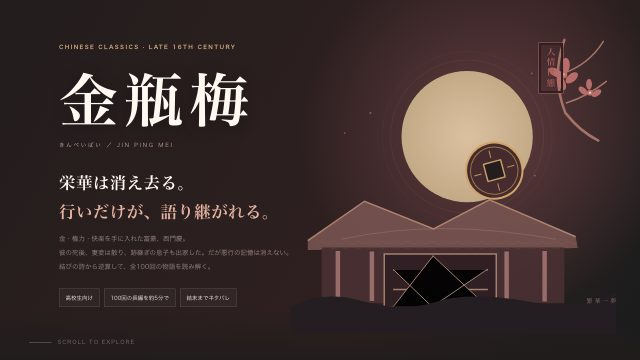
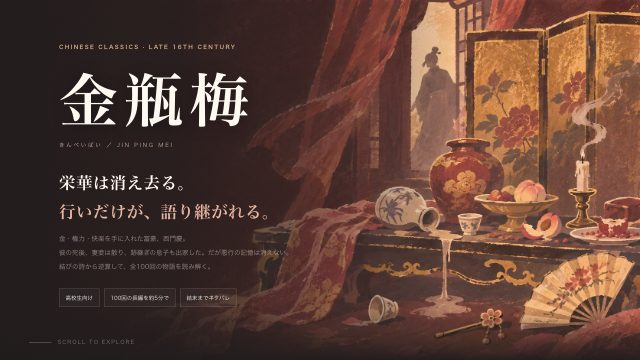
金瓶梅と紅楼夢の図解の冒頭を絵に差し替え、評価の出典を一次資料にする
- 図解2本の冒頭の SVG 絵を外し、用意した絵(img/*.webp)を背景に敷く。文字の後ろは左から暗くし、縦並びの幅では上から暗くする
- 評価の節の出典を、Wikipedia から一次資料(『万暦野獲編』『中国小説史略』『金瓶梅』第58回、張明澄『間違いだらけの漢文』など)に替える。確かめられなかった記述は削るか言い換える
- あらすじを横5列に並べる幅で、列幅に合わせて見出しを縮め、末尾1文字だけが次の行に落ちないようにする
- サムネ撮影の設定から外した絵の指定を消し、サムネを撮り直す

diff --git a/talks/jinpingmei-kouroumu/jinpingmei.html b/talks/jinpingmei-kouroumu/jinpingmei.html
@@ -10,7 +10,7 @@
 :root{--paper:#f5f0e8;--paper2:#ece5d9;--cream:#fffaf1;--ink:#292322;--muted:#766c68;--line:#d8cabe;--wine:#8d3540;--wine2:#a4474d;--wine-soft:#f4e2df;--gold:#bf985c;--night:#242020;--night2:#342323;--sage:#557a69;--serif:'Noto Serif JP','Yu Mincho','Hiragino Mincho ProN','YuMincho',serif;--sans:'Noto Sans JP','Hiragino Kaku Gothic ProN','Meiryo',sans}
 *{box-sizing:border-box}html{scroll-behavior:smooth}body{margin:0;background:var(--paper);color:var(--ink);font:15px/1.9 var(--sans);-webkit-font-smoothing:antialiased}a{color:inherit;text-decoration:none}button{font:inherit}a:focus-visible,button:focus-visible{outline:3px solid #dcaa55;outline-offset:3px}::selection{background:#e6b7a6}.wrap{max-width:1160px;margin:auto;padding:0 clamp(18px,4.8vw,58px)}.section{padding:100px 0}.eyebrow{display:flex;align-items:center;gap:12px;letter-spacing:.17em;color:var(--wine2);font-size:11px;font-weight:800;text-transform:uppercase}.eyebrow:before{content:'';width:24px;height:1px;background:currentColor}.sec-title{font:800 clamp(27px,3.6vw,43px)/1.55 var(--serif);letter-spacing:.025em;margin:13px 0}.sec-sub{margin:0 0 34px;color:var(--muted);font-size:14px;max-width:780px;line-height:2}.accent{color:var(--wine)}.serif{font-family:var(--serif)}.tiny{font-size:12px;color:var(--muted)}.fade{color:#c7b8af}.no-break{white-space:nowrap}
 /* hero */
-.hero{background:radial-gradient(circle at 76% 37%,#613c40 0,transparent 35%),linear-gradient(120deg,#231d1d 0%,#302020 66%,#191c1c 100%);color:var(--cream);position:relative;overflow:hidden}.hero:after{content:'';position:absolute;inset:auto 0 0;height:100px;background:linear-gradient(transparent,#211c1cf5);pointer-events:none}.hero-layout{min-height:625px;display:grid;grid-template-columns:1.03fr .97fr;align-items:center;position:relative;z-index:2}.hero-copy{padding:72px 0 95px;position:relative;z-index:3}.hero-kicker{font-size:11px;letter-spacing:.25em;color:#dbb587;font-weight:800}.hero h1{font:900 clamp(70px,9.7vw,117px)/1.25 var(--serif);letter-spacing:.12em;margin:22px 0 8px;text-shadow:0 7px 32px #0005}.hero-trans{color:#cdb0a2;font-size:11px;letter-spacing:.32em}.hero h2{font:700 clamp(23px,2.8vw,33px)/1.72 var(--serif);letter-spacing:.025em;margin:37px 0 12px}.hero h2 em{font-style:normal;color:#e6b4a2}.hero-description{color:#d3c1b9aa;max-width:500px;font-size:13px;line-height:2.15}.hero-tags{display:flex;gap:9px;flex-wrap:wrap;margin-top:29px}.hero-tags span{border:1px solid #c9a78a4d;background:#ffffff08;padding:7px 12px;font-size:11px}.hero-art{height:625px;position:relative;pointer-events:none}.hero-art svg{height:100%;width:calc(100% + 145px);position:absolute;left:-75px;top:0}.hero-stamp{position:absolute;right:7%;top:85px;z-index:3;border:1px solid #ae675f;color:#a85b55;font:800 17px/1.4 var(--serif);padding:9px 12px;writing-mode:vertical-rl;letter-spacing:.2em;box-shadow:inset 0 0 0 4px #301e20}.hero-scroll{position:absolute;bottom:26px;left:clamp(18px,4.8vw,58px);font-size:11px;letter-spacing:.18em;color:#d5c4be86;z-index:4}.hero-scroll:before{content:'';display:inline-block;width:45px;height:1px;background:currentColor;vertical-align:middle;margin-right:12px}
+.hero{background:linear-gradient(90deg,#231d1d 0%,#231d1deb 36%,#231d1d99 56%,#231d1d00 80%),url(img/jinpingmei-hero.webp) right center/cover no-repeat,#231d1d;color:var(--cream);position:relative;overflow:hidden}.hero:after{content:'';position:absolute;inset:auto 0 0;height:100px;background:linear-gradient(transparent,#211c1cf5);pointer-events:none}.hero-layout{min-height:625px;display:grid;grid-template-columns:1.03fr .97fr;align-items:center;position:relative;z-index:2}.hero-copy{padding:72px 0 95px;position:relative;z-index:3}.hero-kicker{font-size:11px;letter-spacing:.25em;color:#dbb587;font-weight:800}.hero h1{font:900 clamp(70px,9.7vw,117px)/1.25 var(--serif);letter-spacing:.12em;margin:22px 0 8px;text-shadow:0 7px 32px #0005}.hero-trans{color:#cdb0a2;font-size:11px;letter-spacing:.32em}.hero h2{font:700 clamp(23px,2.8vw,33px)/1.72 var(--serif);letter-spacing:.025em;margin:37px 0 12px}.hero h2 em{font-style:normal;color:#e6b4a2}.hero-description{color:#d3c1b9aa;max-width:500px;font-size:13px;line-height:2.15}.hero-tags{display:flex;gap:9px;flex-wrap:wrap;margin-top:29px}.hero-tags span{border:1px solid #c9a78a4d;background:#ffffff08;padding:7px 12px;font-size:11px}.hero-art{height:625px;position:relative;pointer-events:none}.hero-art svg{height:100%;width:calc(100% + 145px);position:absolute;left:-75px;top:0}.hero-stamp{position:absolute;right:7%;top:85px;z-index:3;border:1px solid #ae675f;color:#a85b55;font:800 17px/1.4 var(--serif);padding:9px 12px;writing-mode:vertical-rl;letter-spacing:.2em;box-shadow:inset 0 0 0 4px #301e20}.hero-scroll{position:absolute;bottom:26px;left:clamp(18px,4.8vw,58px);font-size:11px;letter-spacing:.18em;color:#d5c4be86;z-index:4}.hero-scroll:before{content:'';display:inline-block;width:45px;height:1px;background:currentColor;vertical-align:middle;margin-right:12px}
 /* overview */
 .overview{background:#f8f3ec}.overview-grid{display:grid;grid-template-columns:1fr 1fr;gap:65px;align-items:center}.thesis{font:800 clamp(24px,3.4vw,36px)/1.78 var(--serif);margin:15px 0 14px}.thesis mark{background:linear-gradient(transparent 68%,#f0d0c1 68%);color:inherit}.overview p{color:#6f6561}.stats{display:grid;grid-template-columns:repeat(3,minmax(0,1fr));border:1px solid var(--line);background:#fffaf5;box-shadow:0 22px 50px #4431260b}.stat{text-align:center;padding:26px 12px;border-right:1px solid var(--line)}.stat:last-child{border:0}.stat strong{display:block;font:800 clamp(26px,3.6vw,41px) var(--serif);color:var(--wine)}.stat span{font-size:11px;color:#84736e}.overview-note{margin-top:12px;font-size:11px!important;line-height:1.7;color:#8a7a73!important}
 /* formula */
@@ -67,6 +67,10 @@
 @media(max-width:800px){.poem-layout{grid-template-columns:1fr}.poem-panel{max-width:none}.legacy-time,.legacy-cols{grid-template-columns:1fr 64px 1fr}.legacy-side{padding:18px 14px;min-height:245px}.legacy-middle .legacy-cross{font-size:36px}.legacy-tokens span{font-size:12px}}
 @media(max-width:758px){.poem-panel{padding:22px 20px}.poem-body{font-size:clamp(14px,4vw,18px)}.poem-seal{right:9px;top:108px;font-size:11px;opacity:.35}.read-row{padding:14px 13px;grid-template-columns:26px 1fr;gap:10px}.read-index{font-size:20px}.read-row h3{font-size:17px}.read-row p{font-size:12px}.legacy-diagram{padding:18px 13px}.legacy-time{grid-template-columns:1fr 33px 1fr;gap:5px;font-size:10px;letter-spacing:0}.legacy-time span:nth-child(2){font-size:9px}.legacy-cols{grid-template-columns:1fr 33px 1fr;gap:5px}.legacy-side{padding:16px 8px;min-height:244px}.legacy-side h3{font-size:16px;line-height:1.45;min-height:46px}.legacy-kicker{font-size:8px;letter-spacing:0}.legacy-tokens{gap:5px}.legacy-tokens span{font-size:11px;letter-spacing:-.04em;padding:7px 1px}.legacy-side p{font-size:10px;margin-top:12px}.legacy-middle .legacy-cross{font-size:27px}.legacy-cross-caption{font-size:9px;letter-spacing:-.06em;writing-mode:vertical-rl}.legacy-arrow{font-size:23px}.legacy-bottom{display:block;text-align:center;font-size:13px}.legacy-bottom span,.legacy-bottom strong{display:block}}
 @media(max-width:540px){.poem-panel{padding:22px 20px}.poem-body{font-size:clamp(14px,4vw,18px)}.poem-seal{right:9px;top:108px;font-size:11px;opacity:.35}.read-row{padding:14px 13px;grid-template-columns:26px 1fr;gap:10px}.read-index{font-size:20px}.read-row h3{font-size:17px}.read-row p{font-size:12px}.legacy-diagram{padding:18px 13px}.legacy-time{grid-template-columns:1fr 33px 1fr;gap:5px;font-size:10px;letter-spacing:0}.legacy-time span:nth-child(2){font-size:9px}.legacy-cols{grid-template-columns:1fr 33px 1fr;gap:5px}.legacy-side{padding:16px 8px;min-height:244px}.legacy-side h3{font-size:16px;line-height:1.45;min-height:46px}.legacy-kicker{font-size:8px;letter-spacing:0}.legacy-tokens{gap:5px}.legacy-tokens span{font-size:11px;letter-spacing:-.04em;padding:7px 1px}.legacy-side p{font-size:10px;margin-top:12px}.legacy-middle .legacy-cross{font-size:27px}.legacy-cross-caption{font-size:9px;letter-spacing:-.06em;writing-mode:vertical-rl}.legacy-arrow{font-size:23px}.legacy-bottom{display:block;text-align:center;font-size:13px}.legacy-bottom span,.legacy-bottom strong{display:block}}
+/* あらすじを横5列に並べているとき、列幅に合わせて見出しを縮め、末尾1文字だけが次の行に落ちないようにする(横5列になるのは 899px 以上) */
+@media(min-width:899px){.scene h3{font-size:clamp(13px,calc((90.4vw - var(--aside)) / 40 - 3.3px),18px)}}
+/* 冒頭は画像を背景に敷く。縦並びの幅では文字の後ろを上から暗くし、下に絵を見せる */
+@media(max-width:898px){.hero{background:linear-gradient(180deg,#231d1df2 0%,#231d1de0 55%,#231d1d59 100%),url(img/jinpingmei-hero.webp) 72% bottom/cover no-repeat,#231d1d}.hero-layout{padding-bottom:120px}}
 </style>
 <link rel="stylesheet" href="../talkbar.css">
 </head>
@@ -95,14 +99,7 @@
 <div class="layout">
 <main>
 <section class="hero" aria-labelledby="hero-title"><div class="wrap hero-layout"><div class="hero-copy"><div class="hero-kicker">CHINESE CLASSICS · LATE 16TH CENTURY</div><h1 id="hero-title">金瓶梅</h1><div class="hero-trans">きんぺいばい ／ JIN PING MEI</div><h2>栄華は消え去る。<br><em>行いだけが、語り継がれる。</em></h2><p class="hero-description">金・権力・快楽を手に入れた富豪、西門慶。<br>彼の死後、妻妾は散り、跡継ぎの息子も出家した。だが悪行の記憶は消えない。<br>結びの詩から逆算して、全100回の物語を読み解く。</p><div class="hero-tags"><span>高校生向け</span><span>100回の長編を約5分で</span><span>結末までネタバレ</span></div></div>
-<div class="hero-art" aria-hidden="true"><svg viewBox="0 0 660 620" xmlns="http://www.w3.org/2000/svg"><defs><radialGradient id="gMoon"><stop offset="0" stop-color="#e8ceaa"/><stop offset="1" stop-color="#cfb68f"/></radialGradient><linearGradient id="gRoof" x1="0" y1="0" x2="0" y2="1"><stop stop-color="#785451"/><stop offset="1" stop-color="#3c3032"/></linearGradient><pattern id="roofPattern" width="25" height="13" patternUnits="userSpaceOnUse"><path d="M0 12 Q12 1 25 12" fill="none" stroke="#c89c83" stroke-width=".8" opacity=".26"/></pattern></defs>
-<circle cx="358" cy="222" r="133" fill="url(#gMoon)" opacity=".91"/><circle cx="358" cy="222" r="155" stroke="#deb890" stroke-opacity=".16" fill="none"/><circle cx="358" cy="222" r="172" stroke="#d7af8e" stroke-opacity=".1" fill="none"/>
-<g opacity=".9"><path d="M35 433 L150 353 L290 409 L403 350 L578 425 L582 448 L35 452Z" fill="#775450"/><path d="M35 433 L150 353 L290 409 L403 350 L578 425" fill="none" stroke="#bb8c78" stroke-width="3"/><path d="M63 447H555V560H63Z" fill="#4a3032"/><path d="M96 454V556M515 454V556M165 455V555M438 455V555" stroke="#a47572" stroke-width="9"/><path d="M190 460 H417V568H190Z" fill="#301f24" stroke="#b08a79" stroke-width="3"/><path d="M289 463V568 M208 492H400M208 532H400" stroke="#b08a79" stroke-width="3"/><path d="M208 491L287 567L399 491M399 567L289 464L208 567" stroke="#b08a79" stroke-width="2"/><path d="M54 430 H580 V451 H54Z" fill="url(#roofPattern)"/><path d="M103 430Q300 387 538 430" stroke="#caa088" stroke-opacity=".3" stroke-width="2" fill="none"/></g>
-<path d="M0 569Q60 532 144 555T294 557T480 556T660 536V620H0Z" fill="#241e22"/>
-<g fill="none" stroke="#a57469" stroke-width="5" stroke-linecap="round"><path d="M555 26 Q528 100 557 174 Q588 213 624 230"/><path d="M550 95 Q605 76 634 29M559 154 Q604 139 640 110" stroke-width="3"/></g>
-<g fill="#b76d69"><circle cx="553" cy="96" r="8"/><ellipse cx="537" cy="92" rx="8" ry="15" transform="rotate(-60 537 92)"/><ellipse cx="558" cy="77" rx="8" ry="15"/><ellipse cx="570" cy="103" rx="8" ry="15" transform="rotate(50 570 103)"/><ellipse cx="549" cy="114" rx="8" ry="15" transform="rotate(-25 549 114)"/><circle cx="607" cy="133" r="6"/><ellipse cx="593" cy="129" rx="6" ry="11" transform="rotate(-50 593 129)"/><ellipse cx="605" cy="116" rx="6" ry="11"/><ellipse cx="620" cy="134" rx="6" ry="11" transform="rotate(58 620 134)"/></g><g fill="#e9c3a1"><circle cx="553" cy="96" r="2.7"/><circle cx="607" cy="133" r="2.5"/></g>
-<g fill="#c1a17c" opacity=".48"><circle cx="162" cy="174" r="2"/><circle cx="110" cy="215" r="1.8"/><circle cx="489" cy="94" r="1.7"/><circle cx="495" cy="301" r="1.8"/></g>
-<g transform="translate(413 291) rotate(-15)"><circle r="57" fill="#452b2d" stroke="#d0a46b" stroke-width="4"/><circle r="48" fill="none" stroke="#9d774f" stroke-width="2"/><rect x="-18" y="-18" width="36" height="36" rx="1" fill="#241c1e" stroke="#c59d68" stroke-width="3"/><path d="M-42 0H-27M27 0H42M0 -42V-27M0 27V42" stroke="#b99261" stroke-width="2"/></g><text x="600" y="559" font-family="serif" font-size="12" letter-spacing="4" fill="#c6a19a" opacity=".7">繁華一夢</text></svg><div class="hero-stamp">人情世態</div></div></div><div class="hero-scroll">SCROLL TO EXPLORE</div></section>
+</div><div class="hero-scroll">SCROLL TO EXPLORE</div></section>
 <section class="section overview" id="intro"><div class="wrap overview-grid"><div><div class="eyebrow">01 — OVERVIEW</div><h2 class="thesis"><mark>すべてを手に入れた男</mark>は、<br>最後に何を残したのか。</h2><p>舞台は宋代の中国。商人・西門慶は金とコネで権力を買い、複数の妻妾を囲う。しかし、死後に妻妾は散り散りになり、跡継ぎの息子も出家する。残ったのは彼らの行いをめぐる物語だった。</p><p>露骨な性愛描写で知られるが、本質は<strong>富裕層の暮らし、官僚の腐敗、人間の欲望</strong>を細密に描く社会小説。</p></div><div><div class="stats"><div class="stat"><strong>16<span style="font-size:.58em">世紀末</span></strong><span>明代に成立</span></div><div class="stat"><strong>100<span style="font-size:.58em">回</span></strong><span>全100回の長編</span></div><div class="stat"><strong>79<span style="font-size:.58em">回</span></strong><span>主人公の死亡回</span></div></div><p class="overview-note">※ 作者は確定しておらず、蘭陵笑笑生という筆名で知られる。『水滸伝』の武松・潘金蓮・西門慶のエピソードを発展させた作品。</p></div></div></section>
 <section class="formula-section"><div class="wrap"><div class="eyebrow">THE ENGINE OF THE STORY</div><h2 class="sec-title">西門慶を動かす、<span class="accent">4つの連鎖</span></h2><p class="sec-sub">生前にどう成功し、なぜ死後には別の評価が残るのか。まず栄華の仕組みを見てみよう。悪事のたびに罰を受けるどころか、彼は成功してしまう。</p><div class="formula-grid"><article class="formula-card"><div class="formula-icon">金</div><h3>商売で富を築く</h3><p>財産を増やし、周囲の人間を引きつける。</p></article><article class="formula-card"><div class="formula-icon">権</div><h3>賄賂で権力を買う</h3><p>役人と結びつき、不正さえも金で解決する。</p></article><article class="formula-card"><div class="formula-icon">色</div><h3>欲望を広げる</h3><p>次々に女性を求め、家の中に嫉妬と争いが生まれる。</p></article><article class="formula-card"><div class="formula-icon">滅</div><h3>築いたものが崩れる</h3><p>本人の死をきっかけに、家族と金銭関係が瓦解する。</p></article></div></div></section>
 <section class="section characters" id="people"><div class="wrap"><div class="eyebrow">02 — RELATIONSHIPS</div><h2 class="sec-title">金・瓶・梅。<span class="accent">3人の女性がタイトルに</span></h2><p class="sec-sub">題名は主要女性の名前から一文字ずつ。中心にいる西門慶の愛情と財産をめぐり、人間関係が複雑に絡み合う。</p><div class="relation-stage"><div class="diagram-title">西門家の主要人物相関図（簡略版）</div><div class="relation-top"><div class="central"><div class="person-role">富豪・一家の中心</div><div class="person-name">西門慶</div><p>せいもんけい ／ 商売・買収・女性関係で勢力を広げる</p></div></div><svg class="relation-connect" viewBox="0 0 800 84" preserveAspectRatio="none" aria-hidden="true"><path d="M400 0V24M134 60V24H666V60M400 24V60" stroke="#b58c75" stroke-width="2" fill="none"/><circle cx="134" cy="60" r="4" fill="#ac3b42"/><circle cx="400" cy="60" r="4" fill="#c99a65"/><circle cx="666" cy="60" r="4" fill="#6b816e"/><text x="400" y="18" text-anchor="middle" font-size="12" fill="#8f7769">妻妾・愛情と地位の争い</text></svg><div class="three-women"><article class="woman"><div class="woman-head"><div class="woman-symbol">金</div><div><div class="woman-name">潘金蓮</div><div class="woman-kana">はんきんれん</div></div></div><div class="role">第五夫人</div><p>西門慶と不倫し、夫を毒殺。独占欲と嫉妬が強く、李瓶児に敵意を向ける。</p><div class="fate">最後：武松に復讐され死亡</div></article><article class="woman"><div class="woman-head"><div class="woman-symbol">瓶</div><div><div class="woman-name">李瓶児</div><div class="woman-kana">りへいじ</div></div></div><div class="role">第六夫人</div><p>西門慶の息子・官哥を産み、寵愛を受ける。息子を失い、悲嘆のうちに病死する。</p><div class="fate">最後：息子の死後、病死</div></article><article class="woman"><div class="woman-head"><div class="woman-symbol">梅</div><div><div class="woman-name">龐春梅</div><div class="woman-kana">ほうしゅんばい</div></div></div><div class="role">潘金蓮に仕える侍女</div><p>西門家から出た後、武官の家で高い地位を得る。しかし、栄達の果てに若死にする。</p><div class="fate">最後：富貴を得るも病死</div></article></div><div class="rel-legend"><span><i class="swatch"></i>「金」＝嫉妬と執着</span><span><i class="swatch gold"></i>「瓶」＝愛情と喪失</span><span><i class="swatch green"></i>「梅」＝立身と転落</span></div></div><div class="extra-rel"><div class="ex"><strong>呉月娘（ごげつじょう）</strong><br>正妻。夫の死後も生き延び、息子を育てる。</div><div class="ex"><strong>武松（ぶしょう）</strong><br>潘金蓮が殺した夫の弟。後に復讐を果たす。</div><div class="ex"><strong>陳経済（ちんけいさい）</strong><br>西門慶の娘婿。西門慶の死後、放蕩と転落を繰り返す。</div></div></div></section>
@@ -132,10 +129,10 @@
 <div class="takeaway"><small>THE CENTRAL IDEA — この図解の核</small><p>生きている間にどれほど栄華を極めても、<br>最後に残るのは財産でも快楽でもなく、<br><span class="accent">その人間が何をしたかという記憶である。</span></p></div><p class="interpretation-note">これは結びの詩を手がかりにした、本ページの中心的な読み方です。『金瓶梅』には他にも、欲望の連鎖、官僚腐敗、女性の生き方、仏教的因果など複数の主題があります。</p></div></section>
 <section class="section compare" id="compare"><div class="wrap"><div class="eyebrow">08 — COMPARE THE TWO CLASSICS</div><h2 class="sec-title">『紅楼夢』と読むと、<span class="accent">対照が鮮やかになる。</span></h2><p class="sec-sub">どちらも豪邸の内部と一族の衰退を描くが、主人公の欲望への態度が対照的。</p><div class="compare-grid"><article class="compare-card"><small>欲望の果てに、死ぬ</small><h3>金瓶梅</h3><div class="big-line">「もっと手に入れたい」</div><p>主人公・西門慶は富も権力も求め続けて死ぬ。栄華は消えても、その行いは物語として残る。</p></article><article class="compare-card red"><small>無常を知って、去る</small><h3>紅楼夢</h3><div class="big-line">「得ること自体から離れる」</div><p>主人公・賈宝玉は恋と家の繁栄を失う。さらに出世を果たしてもそこに留まらず、幸福を所有しようとする執着から離れていく（通行の120回版）。</p></article></div><div class="compare-verdict"><div>金瓶梅の問い：人は死後、<strong>何によって記憶される</strong>のか？</div><div>紅楼夢の問い：幸福を永遠に所有できないなら、<strong>何を手放す</strong>のか？</div></div></div></section>
 <section class="section reception" id="reception"><div class="wrap"><div class="eyebrow">09 — RECEPTION</div><h2 class="sec-title">読まれ方の400年：<span class="accent">「淫書」から「社会小説」へ</span></h2><p class="sec-sub">書かれた当時から、絶賛と非難が同時に出た作品。露骨な描写の陰で、何が読まれてきたのか。</p>
-<div class="mechanism reception-grid"><article class="idea-card"><div class="idea-id">MING — 写本の時代</div><h3>絶賛と「野卑」が、同時に出た。</h3><p>文人の袁宏道は、名高い古典より優れていると絶賛した。一方で李日華は「市井の滑稽譚で、きわめて野卑」と切り捨てた。沈徳符は好意的に評価しながら、出版を勧められると「人心を惑わせた罪で、閻魔様に責められる」と断ったという。</p></article><article class="idea-card"><div class="idea-id">1920s — 魯迅</div><h3>「同時代の小説で、これを超えるものはない」</h3><p>魯迅は『中国小説史略』で、世の中の人情を描く小説（世情書）の中で最も有名な作品として取り上げ、人物描写の巧みさを同時代で最高と評した。「好色な男女を描いただけの本」という見方は本文と合わない、とも書いている。</p></article><article class="idea-card"><div class="idea-id">EDO JAPAN — 江戸の日本</div><h3>題名は有名、読める人は少ない。</h3><p>曲亭馬琴は「書名は知られているが、きちんと読める人はまれ」と書いた。広まらなかったのは、淫書だからというより難しくて読めなかったためらしい。馬琴自身は勧善懲悪が足りないと酷評しながら、翻案『新編金瓶梅』を書いている。日本語の完訳が出たのは戦後になってから。</p></article><article class="idea-card"><div class="idea-id">TODAY — いま</div><h3>明代の暮らしを伝える資料として。</h3><p>当時の話し言葉や、商売・役所・宗教の実態を細かく伝える資料としても読まれている。たとえば李瓶児が息子の無事を願い、経典1500冊の印刷を業者に頼む場面からは、経典の出版を請け負う商売があったことがわかる。完全な形で残る最古の版本は世界に3セットで、そのうち2セットが日本にある。</p></article></div>
-<p class="interpretation-note">評価の出典：日本語版ウィキペディア「金瓶梅」の評価の節、魯迅『中国小説史略』第十九篇。</p></div></section>
+<div class="mechanism reception-grid"><article class="idea-card"><div class="idea-id">MING — 写本の時代</div><h3>絶賛と「野卑」が、同時に出た。</h3><p>文人の袁宏道は、名高い古典より優れていると絶賛した。一方で李日華は「市井の滑稽譚で、きわめて野卑」と切り捨てた。沈徳符は好意的に評価しながら、出版を勧められると「人心を惑わせた罪で、閻魔様に責められる」と断ったという。</p></article><article class="idea-card"><div class="idea-id">1920s — 魯迅</div><h3>「同時代の小説で、これを超えるものはない」</h3><p>魯迅は『中国小説史略』で、世の中の人情を描く小説（世情書）の中で最も有名な作品として取り上げ、人物描写の巧みさを同時代で最高と評した。「好色な男女を描いただけの本」という見方は本文と合わない、とも書いている。</p></article><article class="idea-card"><div class="idea-id">EDO JAPAN — 江戸の日本</div><h3>題名は有名、読める人は少ない。</h3><p>曲亭馬琴は「書名は知られているが、きちんと読める人はまれ」と書いた。広まらなかったのは、淫書だからというより難しくて読めなかったためらしい。馬琴自身は勧善懲悪が足りないと酷評しながら、翻案『新編金瓶梅』を書いている。日本語の完訳が出たのは戦後になってから。</p></article><article class="idea-card"><div class="idea-id">TODAY — いま</div><h3>明代の暮らしを伝える資料として。</h3><p>当時の話し言葉や、商売・役所・宗教の実態を細かく伝える資料としても読まれている。たとえば李瓶児が息子の無事を願い、経典1500冊の印刷を業者に頼む場面からは、経典の出版を請け負う商売があったことがわかる。</p></article></div>
+<p class="interpretation-note">出典：袁宏道「董思白に与うる書」（尺牘）／李日華『味水軒日記』／沈徳符『<a href="https://zh.wikisource.org/wiki/萬曆野獲編/卷25" target="_blank" rel="noopener noreferrer">万暦野獲編</a>』巻25「金瓶梅」／魯迅『<a href="https://zh.wikisource.org/wiki/中國小說史略/第十九篇" target="_blank" rel="noopener noreferrer">中国小説史略</a>』第十九篇「明之人情小説（上）」／曲亭馬琴『新編金瓶梅』序／『<a href="https://zh.wikisource.org/wiki/金瓶梅_(崇禎本)/第58回" target="_blank" rel="noopener noreferrer">金瓶梅</a>』第58回（経典の印刷の場面）。</p></div></section>
 </main>
-<footer class="footer"><div class="wrap"><h2>栄華は消える。<br>行いは、物語として残る。</h2><p>『金瓶梅』は、どれだけ手に入れたかではなく、何をしたかが死後に問われるという皮肉を読ませる作品でもあります。金や権力が人を変える社会の仕組みや、個々の人物の複雑な生活描写も読みどころ。ここでは結びの詩を中心に、入門用としてかなり単純化しています。</p><p>参考：『金瓶梅詞話』原文、Chinese Text Project の回目一覧。明末の成立と宋代を舞台とする物語の区別、全100回の構成を踏まえて作成しました。</p><div class="references"><a href="https://ctext.org/jinpingmei/ens" target="_blank" rel="noopener noreferrer">原文・回目一覧（Chinese Text Project） ↗</a><a href="https://swanky.github.io/jinpingmei/text/" target="_blank" rel="noopener noreferrer">100回のあらすじと原文目録 ↗</a><a href="https://en.wikipedia.org/wiki/Jin_Ping_Mei" target="_blank" rel="noopener noreferrer">作品概要（英語） ↗</a></div><div class="footer-row"><span>金瓶梅 — AN ILLUSTRATED STORY GUIDE ／ 図は説明用のオリジナル図解</span><span><a href="#top">ページの先頭へ ↑</a><button type="button" class="print-btn" onclick="window.print()">印刷 / PDF化</button></span></div></div></footer>
+<footer class="footer"><div class="wrap"><h2>栄華は消える。<br>行いは、物語として残る。</h2><p>『金瓶梅』は、どれだけ手に入れたかではなく、何をしたかが死後に問われるという皮肉を読ませる作品でもあります。金や権力が人を変える社会の仕組みや、個々の人物の複雑な生活描写も読みどころ。ここでは結びの詩を中心に、入門用としてかなり単純化しています。</p><p>参考：『金瓶梅詞話』原文、Chinese Text Project の回目一覧。明末の成立と宋代を舞台とする物語の区別、全100回の構成を踏まえて作成しました。</p><div class="references"><a href="https://ctext.org/jinpingmei/ens" target="_blank" rel="noopener noreferrer">原文・回目一覧（Chinese Text Project） ↗</a><a href="https://swanky.github.io/jinpingmei/text/" target="_blank" rel="noopener noreferrer">100回のあらすじと原文目録 ↗</a><a href="https://zh.wikisource.org/wiki/中國小說史略/第十九篇" target="_blank" rel="noopener noreferrer">魯迅『中国小説史略』第十九篇 ↗</a></div><div class="footer-row"><span>金瓶梅 — AN ILLUSTRATED STORY GUIDE ／ 図は説明用のオリジナル図解</span><span><a href="#top">ページの先頭へ ↑</a><button type="button" class="print-btn" onclick="window.print()">印刷 / PDF化</button></span></div></div></footer>
 </div>
 <script>
 (()=>{const navLinks=[...document.querySelectorAll('.sidebar nav a')];function syncNav(){let chosen='';for(const s of document.querySelectorAll('main section[id]')){if(s.getBoundingClientRect().top<innerHeight*.43)chosen='#'+s.id;}navLinks.forEach(a=>a.classList.toggle('active',a.getAttribute('href')===chosen))}addEventListener('scroll',syncNav,{passive:true});addEventListener('resize',syncNav);syncNav()})();

diff --git a/talks/jinpingmei-kouroumu/kouroumu.html b/talks/jinpingmei-kouroumu/kouroumu.html
@@ -10,7 +10,7 @@
 :root{--ink:#251e27;--paper:#f8f3eb;--paper2:#eee6dc;--night:#241a28;--night2:#3a2838;--rose:#bd5d76;--rose-soft:#f8e5e7;--gold:#b99558;--gold-soft:#f4ebd8;--sage:#5d8c78;--sage-soft:#e5efe8;--muted:#817681;--line:#ddd3c8;--serif:'Noto Serif JP','Yu Mincho','Hiragino Mincho ProN',serif;--sans:'Noto Sans JP','Hiragino Kaku Gothic ProN',sans;--ease:cubic-bezier(.2,.75,.3,1)}
 *{box-sizing:border-box}html{scroll-behavior:smooth}body{margin:0;background:var(--paper);color:var(--ink);font-family:var(--sans);font-size:15px;line-height:1.85}button{font:inherit}a{color:inherit;text-decoration:none}button:focus-visible,a:focus-visible{outline:3px solid #bf8a66;outline-offset:3px}::selection{background:#f0c2d1;color:#2d1b2d}.wrap{max-width:1100px;margin:auto;padding-inline:clamp(20px,5vw,58px)}.label{display:flex;align-items:center;gap:10px;font-size:11px;font-weight:800;letter-spacing:.18em;color:var(--rose);text-transform:uppercase}.label:before{content:'';width:24px;height:1px;background:currentColor;display:inline-block}.section-head{margin:0 0 36px}.section-title{font:800 clamp(28px,4.1vw,43px)/1.45 var(--serif);letter-spacing:.04em;margin:12px 0}.section-sub{max-width:700px;color:#726875;font-size:14px;line-height:2;margin:6px 0 0}.highlight{color:#aa536f}.separator{height:1px;background:var(--line)}.tiny{font-size:12px;color:var(--muted)}
 /* Hero */
-.hero{position:relative;min-height:630px;background:radial-gradient(ellipse at 72% 34%,#4b324d 0,transparent 43%),linear-gradient(133deg,#251d29 8%,#2d2033 54%,#171923 100%);color:#fff;overflow:hidden}.hero:after{content:'';position:absolute;inset:auto 0 0;height:130px;background:linear-gradient(transparent,#241a28);pointer-events:none}.hero-grid{display:grid;grid-template-columns:1.06fr .94fr;min-height:630px;align-items:center;gap:0;position:relative;z-index:2}.hero-copy{padding:60px 0 90px;position:relative;z-index:2}.eyebrow{color:#d9b49a;font-size:12px;letter-spacing:.22em;font-weight:700}.hero h1{font:900 clamp(66px,9.5vw,115px)/1.22 var(--serif);letter-spacing:.09em;margin:19px 0 15px;text-shadow:0 6px 35px #0003}.hero-kana{font:500 12px var(--sans);letter-spacing:.33em;color:#ddbed0;margin-bottom:33px}.hero-lead{font:700 clamp(20px,2.7vw,29px)/1.75 var(--serif);letter-spacing:.06em;max-width:610px;margin:0}.hero-lead strong{color:#e9acbe;font-weight:800}.hero-desc{font-size:13px;color:#e0ced6aa;max-width:510px;margin:23px 0 26px;line-height:2}.hero-pills{display:flex;gap:9px;flex-wrap:wrap}.hero-pill{border:1px solid #dfbbc44c;border-radius:3px;padding:7px 12px;color:#eee1dc;font-size:11px;letter-spacing:.03em;background:#ffffff09}.hero-art{height:100%;min-height:550px;position:relative;pointer-events:none}.hero-art svg{position:absolute;inset:0 0 -20px -90px;width:calc(100% + 135px);height:100%;filter:drop-shadow(0px 15px 40px #0004)}.hero-inside-note{font:500 12px var(--serif);fill:#dcc6cf;opacity:.75;letter-spacing:3px}.petal{position:absolute;width:8px;height:12px;border-radius:75% 5% 70% 0;background:#da9faf9a;transform:rotate(30deg);animation:petalFall 12s linear infinite;opacity:.7;z-index:1}.p1{top:-10%;left:68%;animation-delay:-2s}.p2{top:-8%;left:89%;animation-delay:-9s}.p3{top:-7%;left:57%;animation-delay:-6s}.p4{top:-13%;left:96%;animation-delay:-3s}.p5{top:-4%;left:77%;animation-delay:-10s}@keyframes petalFall{0%{transform:translate(0,0) rotate(0);opacity:0}15%{opacity:.7}90%{opacity:.5}100%{transform:translate(-130px,850px) rotate(510deg);opacity:0}}.scroll-note{display:flex;align-items:center;gap:11px;position:absolute;bottom:33px;left:clamp(20px,5vw,58px);color:#ffffff77;font-size:11px;letter-spacing:.15em;z-index:5}.scroll-note:before{content:'';display:block;width:42px;height:1px;background:#ffffff66}
+.hero{position:relative;min-height:630px;background:linear-gradient(90deg,#251d29 0%,#251d29eb 36%,#251d2999 56%,#251d2900 80%),url(img/kouroumu-hero.webp) right center/cover no-repeat,#251d29;color:#fff;overflow:hidden}.hero:after{content:'';position:absolute;inset:auto 0 0;height:130px;background:linear-gradient(transparent,#241a28);pointer-events:none}.hero-grid{display:grid;grid-template-columns:1.06fr .94fr;min-height:630px;align-items:center;gap:0;position:relative;z-index:2}.hero-copy{padding:60px 0 90px;position:relative;z-index:2}.eyebrow{color:#d9b49a;font-size:12px;letter-spacing:.22em;font-weight:700}.hero h1{font:900 clamp(66px,9.5vw,115px)/1.22 var(--serif);letter-spacing:.09em;margin:19px 0 15px;text-shadow:0 6px 35px #0003}.hero-kana{font:500 12px var(--sans);letter-spacing:.33em;color:#ddbed0;margin-bottom:33px}.hero-lead{font:700 clamp(20px,2.7vw,29px)/1.75 var(--serif);letter-spacing:.06em;max-width:610px;margin:0}.hero-lead strong{color:#e9acbe;font-weight:800}.hero-desc{font-size:13px;color:#e0ced6aa;max-width:510px;margin:23px 0 26px;line-height:2}.hero-pills{display:flex;gap:9px;flex-wrap:wrap}.hero-pill{border:1px solid #dfbbc44c;border-radius:3px;padding:7px 12px;color:#eee1dc;font-size:11px;letter-spacing:.03em;background:#ffffff09}.hero-art{height:100%;min-height:550px;position:relative;pointer-events:none}.hero-art svg{position:absolute;inset:0 0 -20px -90px;width:calc(100% + 135px);height:100%;filter:drop-shadow(0px 15px 40px #0004)}.hero-inside-note{font:500 12px var(--serif);fill:#dcc6cf;opacity:.75;letter-spacing:3px}.petal{position:absolute;width:8px;height:12px;border-radius:75% 5% 70% 0;background:#da9faf9a;transform:rotate(30deg);animation:petalFall 12s linear infinite;opacity:.7;z-index:1}.p1{top:-10%;left:68%;animation-delay:-2s}.p2{top:-8%;left:89%;animation-delay:-9s}.p3{top:-7%;left:57%;animation-delay:-6s}.p4{top:-13%;left:96%;animation-delay:-3s}.p5{top:-4%;left:77%;animation-delay:-10s}@keyframes petalFall{0%{transform:translate(0,0) rotate(0);opacity:0}15%{opacity:.7}90%{opacity:.5}100%{transform:translate(-130px,850px) rotate(510deg);opacity:0}}.scroll-note{display:flex;align-items:center;gap:11px;position:absolute;bottom:33px;left:clamp(20px,5vw,58px);color:#ffffff77;font-size:11px;letter-spacing:.15em;z-index:5}.scroll-note:before{content:'';display:block;width:42px;height:1px;background:#ffffff66}
 /* intro */
 .intro{padding:83px 0 80px;background:#f8f3eb}.intro-grid{display:grid;grid-template-columns:.9fr 1.1fr;align-items:start;gap:56px}.giant-quote{font:700 clamp(23px,3.3vw,36px)/1.8 var(--serif);margin:15px 0 20px}.giant-quote span{box-shadow:inset 0 -.33em #efccd4}.intro p{line-height:2.1;color:#655b64;margin:0}.context-stat{display:grid;grid-template-columns:repeat(3,1fr);border:1px solid var(--line);background:#fffcf7;box-shadow:0 18px 40px #3c24320c}.stat{padding:28px 14px;text-align:center;border-right:1px solid var(--line)}.stat:last-child{border:0}.stat strong{display:block;font:700 clamp(25px,4.2vw,39px) var(--serif);color:#a65b69}.stat small{display:block;color:#7a6b74;font-size:11px;margin-top:6px}.context-note{margin:14px 0 0;font-size:11px;color:#827782;line-height:1.7}
 /* character */
@@ -90,6 +90,10 @@
 @media(max-width:818px){body{font-size:14px}.wrap{padding-inline:20px}.hero{min-height:690px}.hero-grid{min-height:690px}.hero-copy{padding-top:85px;padding-bottom:95px}.hero h1{font-size:clamp(62px,17.5vw,91px);margin-bottom:9px}.hero-kana{font-size:10px;margin-bottom:38px}.hero-lead{font-size:21px;line-height:1.85}.hero-desc{font-size:12px;margin-top:20px;max-width:90%}.hero-art{width:115%;right:-45%;top:55px;opacity:.36}.hero-art svg{height:88%}.scroll-note{left:20px;bottom:25px}.intro,.character,.story,.ending,.idea,.compare{padding-block:67px}.intro-grid{grid-template-columns:1fr;gap:30px}.giant-quote{font-size:25px}.context-stat{margin-top:0}.stat{padding:22px 6px}.stat strong{font-size:28px}.stat small{font-size:10px}.section-head{margin-bottom:26px}.section-title{font-size:29px}.section-sub{font-size:12px}.character:before{font-size:75px}.relationship{padding:22px 13px 23px}.rel-spot{column-gap:8px}.rel-node{padding:15px 9px}.rel-center{max-width:220px}.rel-node strong{font-size:20px}.rel-node small{font-size:10px}.rel-node p{font-size:10px}.rel-line{height:78px;width:96%}.rel-tag{font-size:10px}.relationship-tags{justify-content:center;gap:8px 20px}.rel-hint{font-size:10px}.explainer{grid-template-columns:1fr;gap:10px}.ex-card{padding:19px 20px}.ex-card h3{font-size:18px}.timeline{gap:26px}.chapter,.chapter+.chapter{grid-template-columns:51px 1fr 94px;gap:10px}.chapter h3{font-size:17px;margin-top:24px}.chapter .chapter-visual{height:95px}.chapter p{font-size:11px}.turning{grid-template-columns:1fr;gap:10px}.turning .block{padding:20px 22px}.end-flow{grid-template-columns:1fr;gap:12px}.end-step{min-height:0;padding:21px 23px}.end-step:not(:last-child):after{content:'↓';left:48%;right:auto;bottom:-20px;top:auto}.end-step:nth-child(2):after{display:block}.end-step h3{font-size:20px}.end-bottom{padding:23px 18px;align-items:start}.end-bottom p{font-size:13px}.end-bottom-icon{font-size:36px}.two-loss,.compare-grid,.compare-final{grid-template-columns:1fr;gap:12px}.loss-card{padding:24px 22px 19px}.loss-card h3{font-size:21px}.takeaway{padding:25px 20px}.takeaway p{font-size:20px}.compare-card{padding:25px 22px}.compare-final{margin-top:12px}.footer{padding-top:48px}}
 @media(max-width:600px){body{font-size:14px}.wrap{padding-inline:20px}.hero{min-height:690px}.hero-grid{min-height:690px}.hero-copy{padding-top:85px;padding-bottom:95px}.hero h1{font-size:clamp(62px,17.5vw,91px);margin-bottom:9px}.hero-kana{font-size:10px;margin-bottom:38px}.hero-lead{font-size:21px;line-height:1.85}.hero-desc{font-size:12px;margin-top:20px;max-width:90%}.hero-art{width:115%;right:-45%;top:55px;opacity:.36}.hero-art svg{height:88%}.scroll-note{left:20px;bottom:25px}.intro,.character,.story,.ending,.idea,.compare{padding-block:67px}.intro-grid{grid-template-columns:1fr;gap:30px}.giant-quote{font-size:25px}.context-stat{margin-top:0}.stat{padding:22px 6px}.stat strong{font-size:28px}.stat small{font-size:10px}.section-head{margin-bottom:26px}.section-title{font-size:29px}.section-sub{font-size:12px}.character:before{font-size:75px}.relationship{padding:22px 13px 23px}.rel-spot{column-gap:8px}.rel-node{padding:15px 9px}.rel-center{max-width:220px}.rel-node strong{font-size:20px}.rel-node small{font-size:10px}.rel-node p{font-size:10px}.rel-line{height:78px;width:96%}.rel-tag{font-size:10px}.relationship-tags{justify-content:center;gap:8px 20px}.rel-hint{font-size:10px}.explainer{grid-template-columns:1fr;gap:10px}.ex-card{padding:19px 20px}.ex-card h3{font-size:18px}.timeline{gap:26px}.chapter,.chapter+.chapter{grid-template-columns:51px 1fr 94px;gap:10px}.chapter h3{font-size:17px;margin-top:24px}.chapter .chapter-visual{height:95px}.chapter p{font-size:11px}.turning{grid-template-columns:1fr;gap:10px}.turning .block{padding:20px 22px}.end-flow{grid-template-columns:1fr;gap:12px}.end-step{min-height:0;padding:21px 23px}.end-step:not(:last-child):after{content:'↓';left:48%;right:auto;bottom:-20px;top:auto}.end-step:nth-child(2):after{display:block}.end-step h3{font-size:20px}.end-bottom{padding:23px 18px;align-items:start}.end-bottom p{font-size:13px}.end-bottom-icon{font-size:36px}.two-loss,.compare-grid,.compare-final{grid-template-columns:1fr;gap:12px}.loss-card{padding:24px 22px 19px}.loss-card h3{font-size:21px}.takeaway{padding:25px 20px}.takeaway p{font-size:20px}.compare-card{padding:25px 22px}.compare-final{margin-top:12px}.footer{padding-top:48px}}
 @media(prefers-reduced-motion:reduce){html{scroll-behavior:auto}.petal{animation:none}}
+/* あらすじを横5列に並べているとき、列幅に合わせて見出しを縮め、末尾1文字だけが次の行に落ちないようにする */
+@media(min-width:1069px){.chapter h3{font-size:clamp(14px,calc((100vw - var(--aside)) / 37 - 7px),20px)}}
+/* 冒頭は画像を背景に敷く。縦並びの幅では文字の後ろを上から暗くし、下に絵を見せる */
+@media(max-width:818px){.hero{background:linear-gradient(180deg,#251d29f2 0%,#251d29e0 55%,#251d2959 100%),url(img/kouroumu-hero.webp) 68% bottom/cover no-repeat,#251d29}.hero-grid{padding-bottom:120px}}
 </style>
 <link rel="stylesheet" href="../talkbar.css">
 </head>
@@ -114,7 +118,7 @@
   <div class="sideend"><strong>何も手に入れず、すべてを手放す。</strong><br>結末は通行の120回版によります（ネタバレあり）。</div>
 </aside>
 <div class="layout">
-<header id="top" class="hero"><span class="petal p1"></span><span class="petal p2"></span><span class="petal p3"></span><span class="petal p4"></span><span class="petal p5"></span><div class="wrap hero-grid"><div class="hero-copy"><div class="eyebrow">CHINESE CLASSICS · 18TH CENTURY</div><h1>紅楼夢</h1><div class="hero-kana">こうろうむ ／ DREAM OF THE RED CHAMBER</div><p class="hero-lead">幸せを手に入れるのではない。<br><strong>手に入れようとする心から、</strong><br>目を覚ます。</p><p class="hero-desc">愛する人を失い、家も傾き、ようやく出世した青年・賈宝玉。それでも最後にはすべてを手放す。なぜ、獲得が結末にならないのか。その問いから全120回の物語を読み解く。</p><div class="hero-pills"><span class="hero-pill">高校生向け</span><span class="hero-pill">約5分で理解</span><span class="hero-pill">結末までネタバレ</span></div></div><div class="hero-art" aria-hidden="true"><svg viewBox="0 0 650 690" xmlns="http://www.w3.org/2000/svg"><defs><linearGradient id="moon" x1="0" x2="1" y1="0" y2="1"><stop stop-color="#fff1d2"/><stop offset="1" stop-color="#c8a9b7"/></linearGradient><linearGradient id="roof" x1="0" x2="0" y1="0" y2="1"><stop stop-color="#a98691"/><stop offset="1" stop-color="#483745"/></linearGradient></defs><circle cx="375" cy="223" r="130" fill="url(#moon)" opacity=".88"/><circle cx="375" cy="223" r="160" fill="none" stroke="#b68eaa" opacity=".28"/><circle cx="375" cy="223" r="177" fill="none" stroke="#b68eaa" opacity=".15"/><g fill="#f3dfd2" opacity=".9"><circle cx="275" cy="124" r="2"/><circle cx="527" cy="216" r="1.8"/><circle cx="184" cy="276" r="2.5"/><circle cx="521" cy="359" r="2"/></g><g opacity=".8"><path d="M10 455 Q160 405 310 421 Q448 422 628 370 L650 412 Q433 481 213 472Z" fill="#5e4659"/><path d="M40 515 Q161 494 277 496 L590 470 L620 513 L40 547Z" fill="#382a3b"/></g><g transform="translate(55 300)" stroke="#c3a7a8" stroke-width="2"><path d="M22 166 L65 139 L130 99 L207 87 L247 59 L304 87 L368 98 L437 142 L480 166 L457 165 L405 158 L385 147 L365 160 L305 151 L250 139 L188 151 L126 159 L96 147 L65 162Z" fill="url(#roof)" stroke="#cfaeaf"/><path d="M66 161 L66 335 L440 335 L440 162" fill="#302635"/><path d="M105 182 L105 331 M399 181 L399 331 M174 169 L174 333 M332 171 L332 334" stroke="#987882" stroke-width="8"/><path d="M186 190 H319 V323 H186Z" fill="#e9c9b438" stroke="#977684" stroke-width="4"/><path d="M253 190 V324 M186 260 H318 M188 192 L253 260 L319 190 M188 320 L253 260 L319 320" stroke="#d8b1ae" stroke-width="3"/><path d="M22 336 H476 M17 350 H484" stroke="#bca4a3" stroke-width="5"/><path d="M71 169 L443 169" stroke="#f1cfb8" stroke-width="4"/></g><g stroke="#ce9eaa" stroke-linecap="round" fill="none"><path d="M545 7 C529 100 530 168 591 218 M562 83 C496 52 481 33 471 0 M561 120 C617 99 628 80 650 58" stroke-width="6"/><path d="M534 73 Q519 40 495 37 M571 139 Q596 127 605 105" stroke-width="2"/></g><g fill="#cc8da1" opacity=".92"><g transform="translate(528 75)"><circle r="10"/><ellipse cx="-12" cy="-4" rx="12" ry="6" transform="rotate(20)"/><ellipse cx="11" cy="-8" rx="13" ry="6" transform="rotate(-20)"/><ellipse cx="-5" cy="12" rx="6" ry="12" transform="rotate(30)"/><ellipse cx="9" cy="11" rx="6" ry="12" transform="rotate(-20)"/><circle r="3.5" fill="#f3d6bc"/></g><g transform="translate(575 147) scale(.74)"><circle r="10"/><ellipse cx="-12" cy="-4" rx="12" ry="6" transform="rotate(20)"/><ellipse cx="11" cy="-8" rx="13" ry="6" transform="rotate(-20)"/><ellipse cx="-5" cy="12" rx="6" ry="12" transform="rotate(30)"/><ellipse cx="9" cy="11" rx="6" ry="12" transform="rotate(-20)"/><circle r="3.5" fill="#f3d6bc"/></g><g transform="translate(495 36) scale(.6)"><circle r="10"/><ellipse cx="-12" cy="-4" rx="12" ry="6"/><ellipse cx="11" cy="-8" rx="13" ry="6"/><ellipse cx="-5" cy="12" rx="6" ry="12"/><ellipse cx="9" cy="11" rx="6" ry="12"/></g></g><path d="M20 600 Q123 550 224 598 Q360 649 490 577 Q580 538 655 598 L680 750 H0Z" fill="#221c2c"/><text class="hero-inside-note" x="385" y="677">一場繁華　終歸於夢</text></svg></div></div><div class="scroll-note">SCROLL TO EXPLORE</div></header>
+<header id="top" class="hero"><div class="wrap hero-grid"><div class="hero-copy"><div class="eyebrow">CHINESE CLASSICS · 18TH CENTURY</div><h1>紅楼夢</h1><div class="hero-kana">こうろうむ ／ DREAM OF THE RED CHAMBER</div><p class="hero-lead">幸せを手に入れるのではない。<br><strong>手に入れようとする心から、</strong><br>目を覚ます。</p><p class="hero-desc">愛する人を失い、家も傾き、ようやく出世した青年・賈宝玉。それでも最後にはすべてを手放す。なぜ、獲得が結末にならないのか。その問いから全120回の物語を読み解く。</p><div class="hero-pills"><span class="hero-pill">高校生向け</span><span class="hero-pill">約5分で理解</span><span class="hero-pill">結末までネタバレ</span></div></div></div><div class="scroll-note">SCROLL TO EXPLORE</div></header>
 <main>
 <section id="intro" class="intro"><div class="wrap intro-grid"><div><div class="label">01 — OVERVIEW</div><h2 class="giant-quote">最後に主人公が選ぶのは、<br><span>何かを「得る」ことではなく</span><br>すべてを「手放す」こと。</h2><p>名門・賈家の御曹司・宝玉は、身分も財産もあるのに、出世より詩や恋を大切にする。しかし恋は破れ、一族は没落。科挙に合格して社会的成功を手にしても、宝玉はそこに留まらない。この意外な結末が、作品の核心を照らし出します。</p></div><div><div class="context-stat"><div class="stat"><strong>18<span style="font-size:.52em">世紀</span></strong><small>清代に成立</small></div><div class="stat"><strong>120<span style="font-size:.52em">回</span></strong><small>通行本の全編</small></div><div class="stat"><strong>3<span style="font-size:.52em">人</span></strong><small>物語の恋愛の中心</small></div></div><div class="context-note">作者は曹雪芹（そうせっきん）。よく読まれる120回版の後半40回は、作者本人の筆によるものかどうか議論があります。以下の結末は<strong>通行の120回版</strong>に基づきます。</div></div></div></section>
 <section id="people" class="character"><div class="wrap"><div class="section-head"><div class="label">02 — CHARACTERS</div><h2 class="section-title">恋と家の期待がぶつかる、<span class="highlight">三角関係</span></h2><p class="section-sub">物語の中心は「宝玉が誰を愛するか」と「賈家が誰との結婚を望むか」のすれ違い。ここを押さえるだけで、悲劇の骨格がわかります。</p></div><div class="relationship"><p class="relationship-label">主要人物・関係図</p><div class="rel-spot"><div class="rel-center"><div class="rel-node"><span class="node-mark">玉</span><strong>賈宝玉</strong><small>か・ほうぎょく ／ 主人公</small><p>詩と恋を愛し、出世に無関心な御曹司</p></div></div><div class="rel-line"><svg viewBox="0 0 650 96" preserveAspectRatio="none" role="img" aria-label="宝玉から左の黛玉に愛情、右の宝釵に家族の期待がつながる"><path d="M325 0 V24 H163 V78" stroke="#c1768b" stroke-width="2" fill="none"/><path d="M325 24 H488 V78" stroke="#bea16a" stroke-width="2" fill="none"/><path d="M157 70 L163 80 L169 70" stroke="#c1768b" stroke-width="2" fill="none"/><path d="M482 70 L488 80 L494 70" stroke="#bea16a" stroke-width="2" fill="none"/><rect x="92" y="21" width="142" height="28" rx="14" fill="#f7e1e9"/><text x="163" y="40" text-anchor="middle" font-family="sans-serif" font-size="13" font-weight="700" fill="#af546e">本人が愛する</text><rect x="417" y="21" width="142" height="28" rx="14" fill="#f5ead7"/><text x="488" y="40" text-anchor="middle" font-family="sans-serif" font-size="13" font-weight="700" fill="#987841">家族が望む</text></svg></div><div class="rel-candidates"><div class="rel-love"><div class="rel-node"><span class="node-mark">花</span><strong>林黛玉</strong><small>りん・たいぎょく</small><p>病弱で繊細。宝玉と心を通わせる</p></div></div><div class="rel-duty"><div class="rel-node"><span class="node-mark">釵</span><strong>薛宝釵</strong><small>せつ・ほうさ</small><p>聡明で常識的。周囲が認める花嫁候補</p></div></div></div></div><div class="relationship-tags"><span class="rel-tag rose"><span class="dot"></span> 恋愛・相思相愛</span><span class="rel-tag gold"><span class="dot"></span> 家柄・世間体・結婚の期待</span></div><p class="rel-hint">※ いずれも賈家と親族関係にある人物。対立は単純な「善人と悪人」ではありません。</p></div><div class="explainer"><div class="ex-card"><div class="cap">THE FAMILY</div><h3>賈家（かけ）</h3><p>豪邸・使用人・宴会・庭園を持つ名門。華やかに見えて、浪費や腐敗が徐々に家をむしばんでいる。</p></div><div class="ex-card"><div class="cap">LOVE</div><h3>林黛玉の立場</h3><p>宝玉と感性を分かち合うが、身体が弱く孤独になりやすい。「愛されること」が彼女の支え。</p></div><div class="ex-card"><div class="cap">SOCIAL EXPECTATION</div><h3>薛宝釵の立場</h3><p>思慮深く、大人たちから評価される。結婚相手に選ばれることは、彼女自身の幸福と同じではない。</p></div></div></div></section>
@@ -146,8 +150,8 @@
 <section id="compare" class="compare"><div class="wrap"><div class="section-head"><div class="label">06 — COMPARE</div><h2 class="section-title">『金瓶梅』と並べると、<span class="highlight">もっと面白い</span></h2><p class="section-sub">『金瓶梅』は死後に「何が残るか」を問い、『紅楼夢』は生きている間に「何を手放せるか」を問う——二つの結末は対照的です。</p></div><div class="compare-grid"><article class="compare-card"><div class="cmp-small">手に入れ、最後に「記憶される」物語</div><h3>金瓶梅</h3><div class="cmp-main">生前の栄華は消える。<br>悪名だけが残る。</div><p>西門慶は金、権力、快楽を手にする。だが死後に残るのは、財産ではなく人々が語り継ぐ行いの記憶である。</p></article><article class="compare-card r"><div class="cmp-small">手に入れても「手放す」物語</div><h3>紅楼夢</h3><div class="cmp-main">幸福さえ永遠ではない。<br>だから、執着を離れる。</div><p>賈宝玉は大切な人と一族の繁栄を失い、出世にも到達する。それでも最後は、獲得そのものから離れていく。</p></article></div><div class="compare-final"><div>金瓶梅の問い：<br>「人は死後、<strong>何によって記憶される</strong>のか？」</div><div>紅楼夢の問い：<br>「永遠に持てない幸福を、<strong>なぜ所有しようとする</strong>のか？」</div></div></div></section>
 <section id="reception" class="idea"><div class="wrap"><div class="section-head"><div class="label">07 — RECEPTION</div><h2 class="section-title">現代の評価：<span class="highlight">読み返すほど、抜け出せない</span></h2><p class="section-sub">中国には、この一作だけを研究する学問まである。愛され方も、少し度を越している。</p></div>
 <div class="theory"><div class="theory-mark" aria-hidden="true">三</div><div><span class="theory-eyebrow">ある著作家が伝える「紅楼夢中毒」</span><h3><span class="nb">一度目は読み通せない。</span><span class="nb">二度目でやや面白く、</span><br><span class="nb">三度目で、</span><span class="nb">仕事も勉強も手につかなくなる。</span></h3><p>台湾出身の著作家・張明澄が『間違いだらけの漢文』（1971年）で紹介した話。胡適や蔡元培のような大学者が鞄に入れて何百回も読み返していた、とも書いている。誇張を含んだ逸話だが、この小説が筋を追う物語ではなく、<strong>読み返すたびに細部の味わいが増す文学</strong>だということをよく表している。</p></div></div>
-<div class="explainer"><div class="ex-card"><div class="cap">REDOLOGY</div><h3>「紅学」という学問</h3><p>清代末から、『紅楼夢』だけを専門に研究する学問があり「紅学」と呼ばれる。作者・曹雪芹の生涯、写本の違い、後40回の作者など、論争はいまも続いている。</p></div><div class="ex-card"><div class="cap">SCREEN</div><h3>映像化</h3><p>何度も映画やテレビドラマになっている。特に1987年に放映された中国中央電視台（CCTV）の連続ドラマは評価が高く、日本でも DVD などで観ることができる。</p></div><div class="ex-card"><div class="cap">JAPAN</div><h3>日本での研究</h3><p>伊藤漱平が全訳と長年の研究をまとめた。宮崎市定は、この作品に描かれたのは「繊細な、優美な感触」だと述べている。近年はフランス語・英語・ドイツ語訳も相次いで出ている。</p></div></div>
-<p class="interpretation-note">評価の出典：日本語版ウィキペディア「紅楼夢」の概要と評価の節。張明澄の話は一個人の逸話として紹介しています。</p></div></section>
+<div class="explainer"><div class="ex-card"><div class="cap">REDOLOGY</div><h3>「紅学」という学問</h3><p>清代末から、『紅楼夢』だけを専門に研究する学問があり「紅学」と呼ばれる。作者・曹雪芹の生涯、写本の違い、後40回の作者など、論争はいまも続いている。</p></div><div class="ex-card"><div class="cap">SCREEN</div><h3>映像化</h3><p>何度も映画やテレビドラマになっている。特に1987年に放映された中国中央電視台（CCTV）の連続ドラマは評価が高く、日本でも DVD などで観ることができる。</p></div><div class="ex-card"><div class="cap">JAPAN</div><h3>日本での研究</h3><p>伊藤漱平が全訳と長年の研究をまとめた。宮崎市定は、この作品に描かれたのは「繊細な、優美な感触」だと述べている。英語ではデイヴィッド・ホークスとジョン・ミンフォードによる全訳がある。</p></div></div>
+<p class="interpretation-note">出典：張明澄『間違いだらけの漢文』（久保書店、1971年。一個人の逸話として紹介）／曹雪芹『紅楼夢』伊藤漱平訳（平凡社ライブラリー）／宮崎市定『中国文明の歴史9 清帝国の繁栄』／Cao Xueqin, <i>The Story of the Stone</i>, tr. David Hawkes &amp; John Minford（Penguin Classics）。</p></div></section>
 </main>
 <footer class="footer"><div class="wrap"><h2 class="footer-title">「手に入れる」物語ではなく、<br>「手放す」物語。</h2><p>愛も出世も財産も、それを手にすることと永遠に所有できることは違う。宝玉は何も得なかったから去るのではない。社会的な成功さえ得たあとで、「所有すれば幸福になれる」という発想を離れていく。その結末を照らしているのが、題名にある「夢」です。</p><p>版について：曹雪芹の手になると広く認められるのは主に前80回。1791年に程偉元・高鶚が刊行した120回版の後40回は、成立事情と作者が現在も論争の対象です。ここで説明した「花嫁のすり替え」「科挙合格」「出家・出奔」は120回版の結末です。</p><div class="sources"><a href="https://open.lib.umn.edu/redchamber/chapter/controversy-over-the-last-40-chapters/" target="_blank" rel="noopener noreferrer">参考：ミネソタ大学・最終40回の問題 ↗</a><a href="https://www.newworldencyclopedia.org/entry/Dream_of_the_Red_Chamber" target="_blank" rel="noopener noreferrer">参考：本文の成立と120回版 ↗</a></div><div class="footer-sign"><span>紅楼夢 — AN ILLUSTRATED STORY GUIDE ／ 図は理解のためのオリジナル概念図</span><span><a href="#top" class="backtop">ページの先頭へ ↑</a><button type="button" class="print-btn" onclick="window.print()">印刷 / PDF化</button></span></div></div></footer>
 </div>
